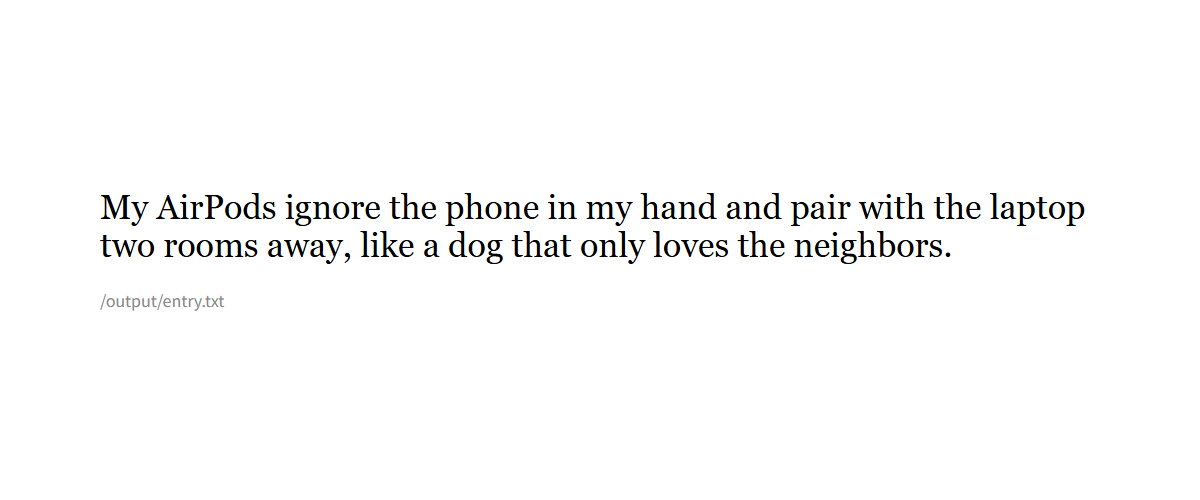
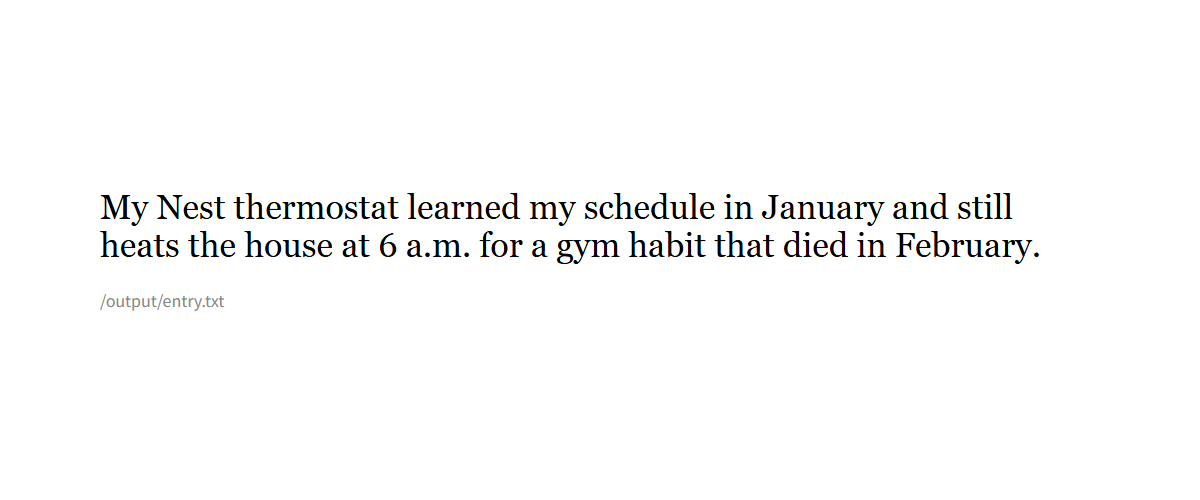
Switch roast to the thermostat that still believes in January

Changed region(s): [[0.0925, 0.39, 0.8942, 0.54]]

diff --git a/main.ts b/main.ts
@@ -2,7 +2,7 @@
 import { mkdirSync, writeFileSync } from "node:fs";
 
 const roast =
-  "My AirPods ignore the phone in my hand and pair with the laptop two rooms away, like a dog that only loves the neighbors.";
+  "My Nest thermostat learned my schedule in January and still heats the house at 6 a.m. for a gym habit that died in February.";
 
 mkdirSync("/output", { recursive: true });
 writeFileSync("/output/entry.txt", roast, "utf8");
